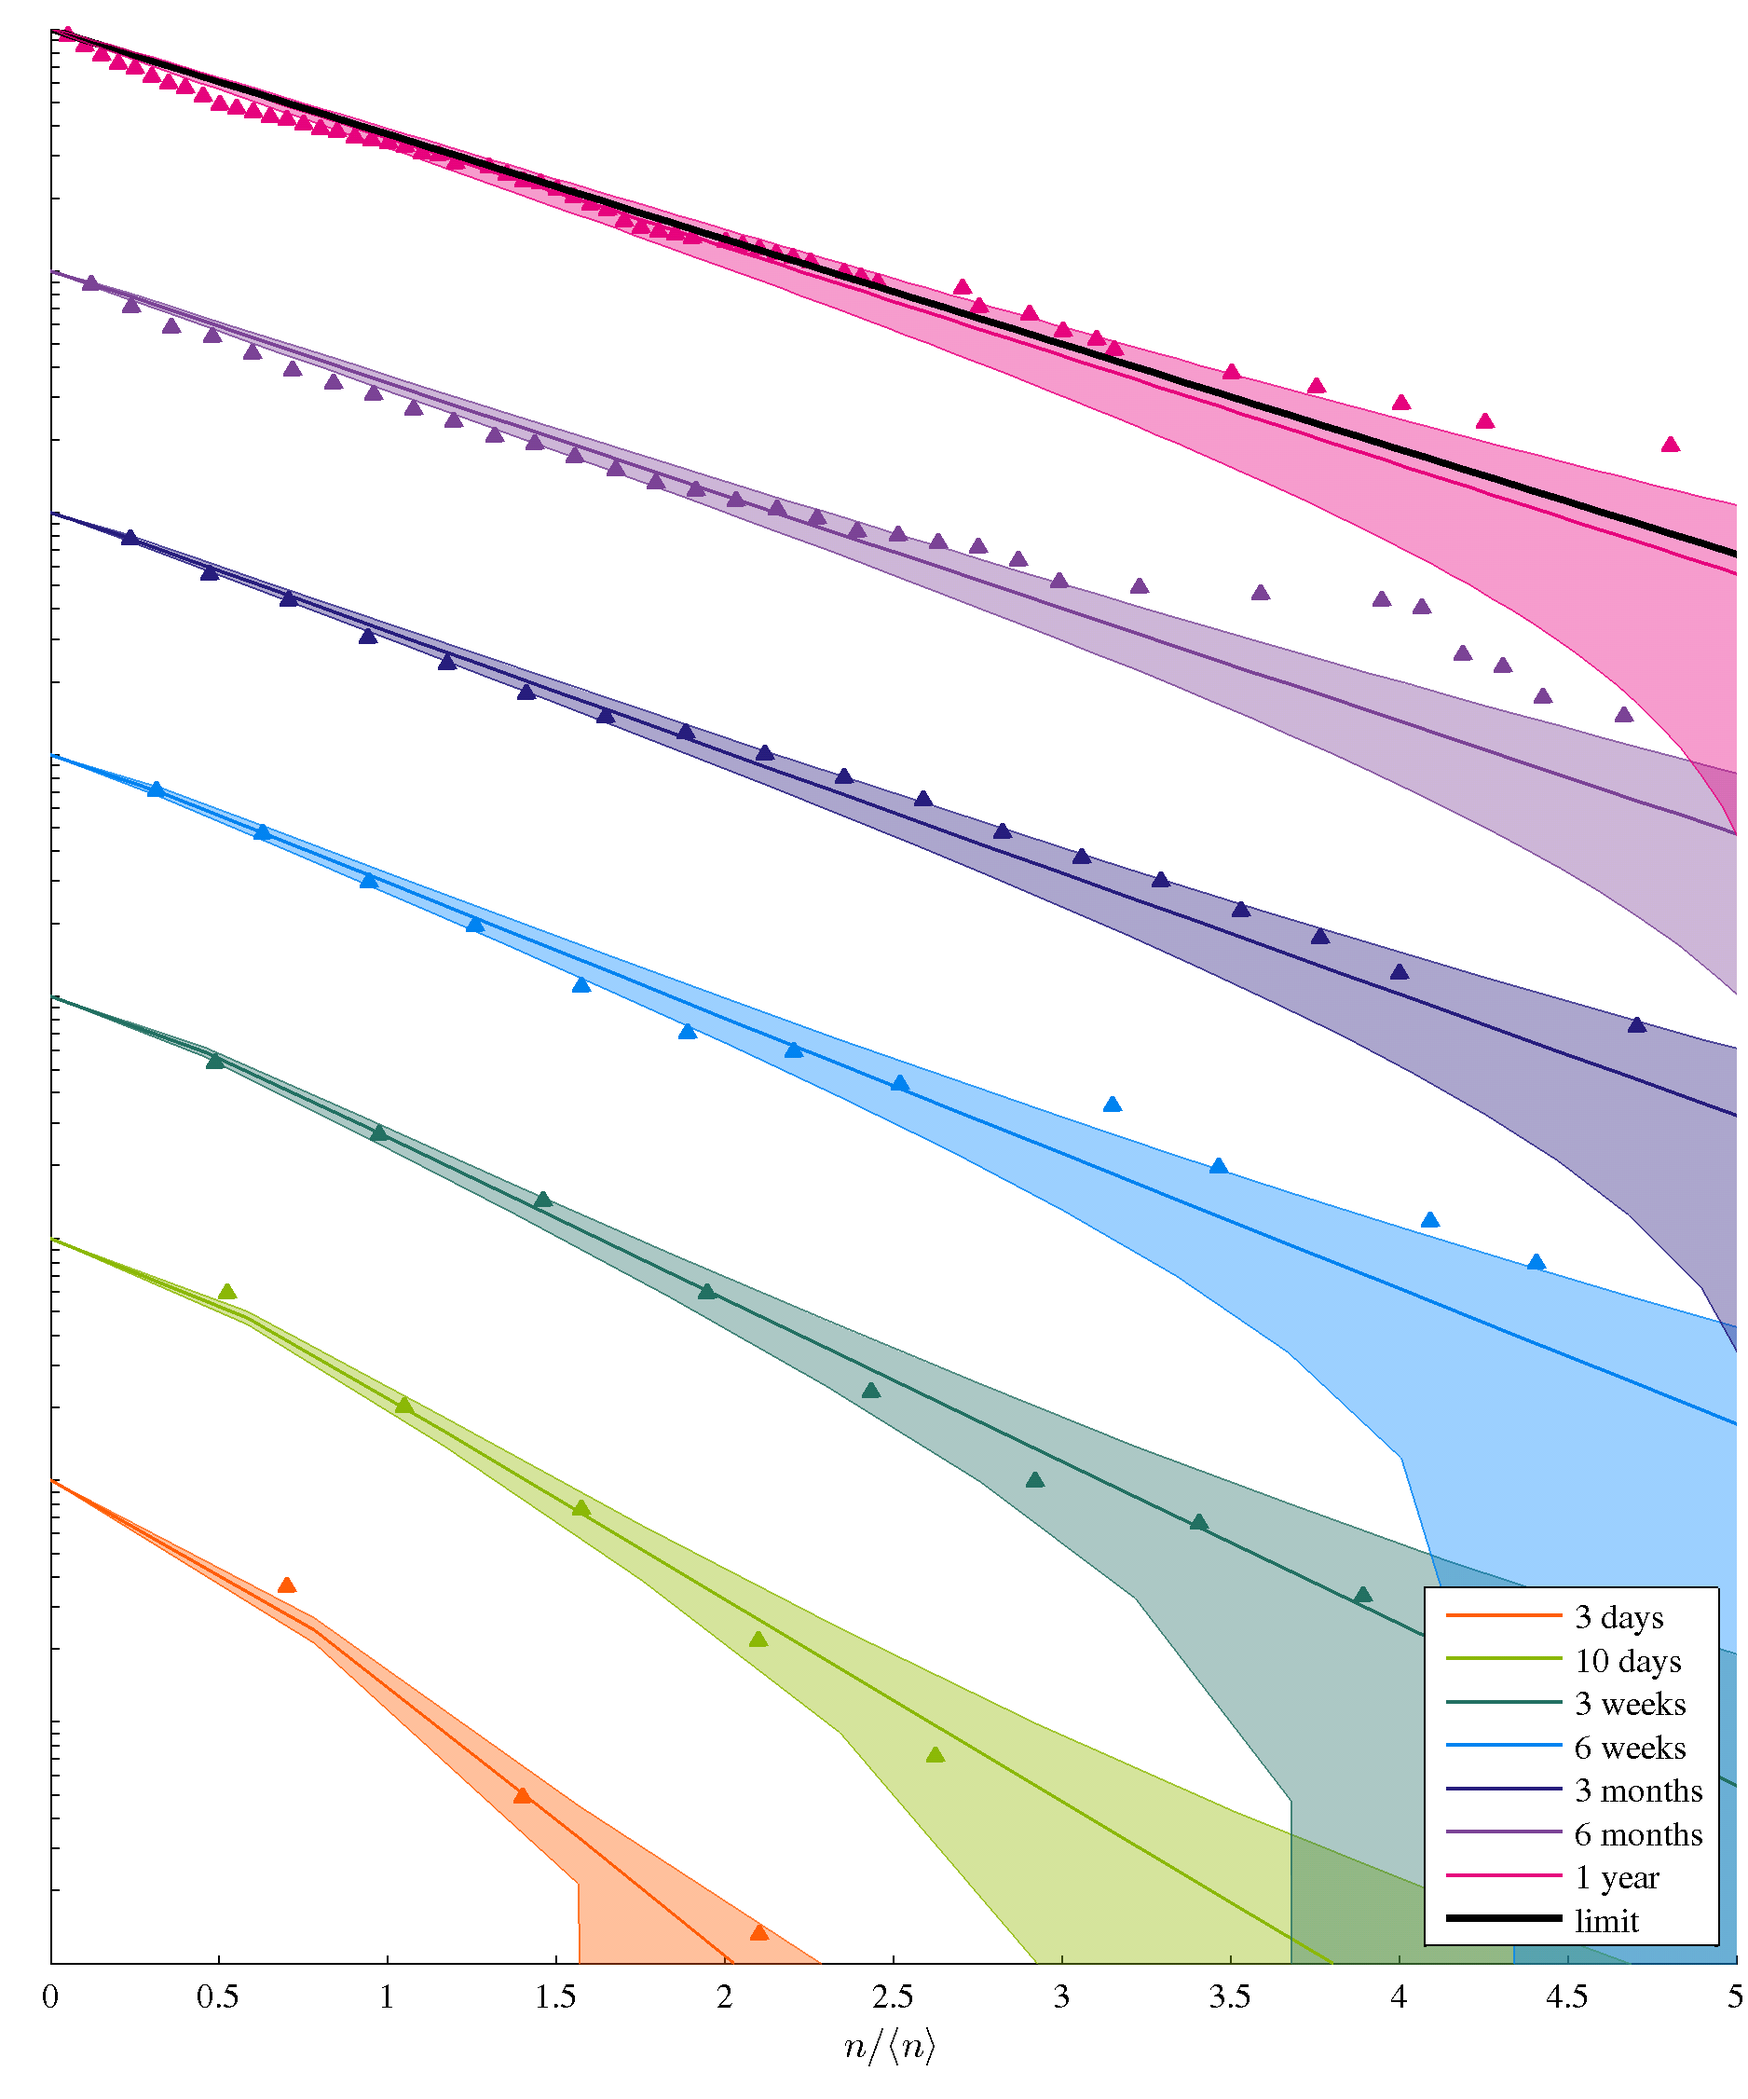
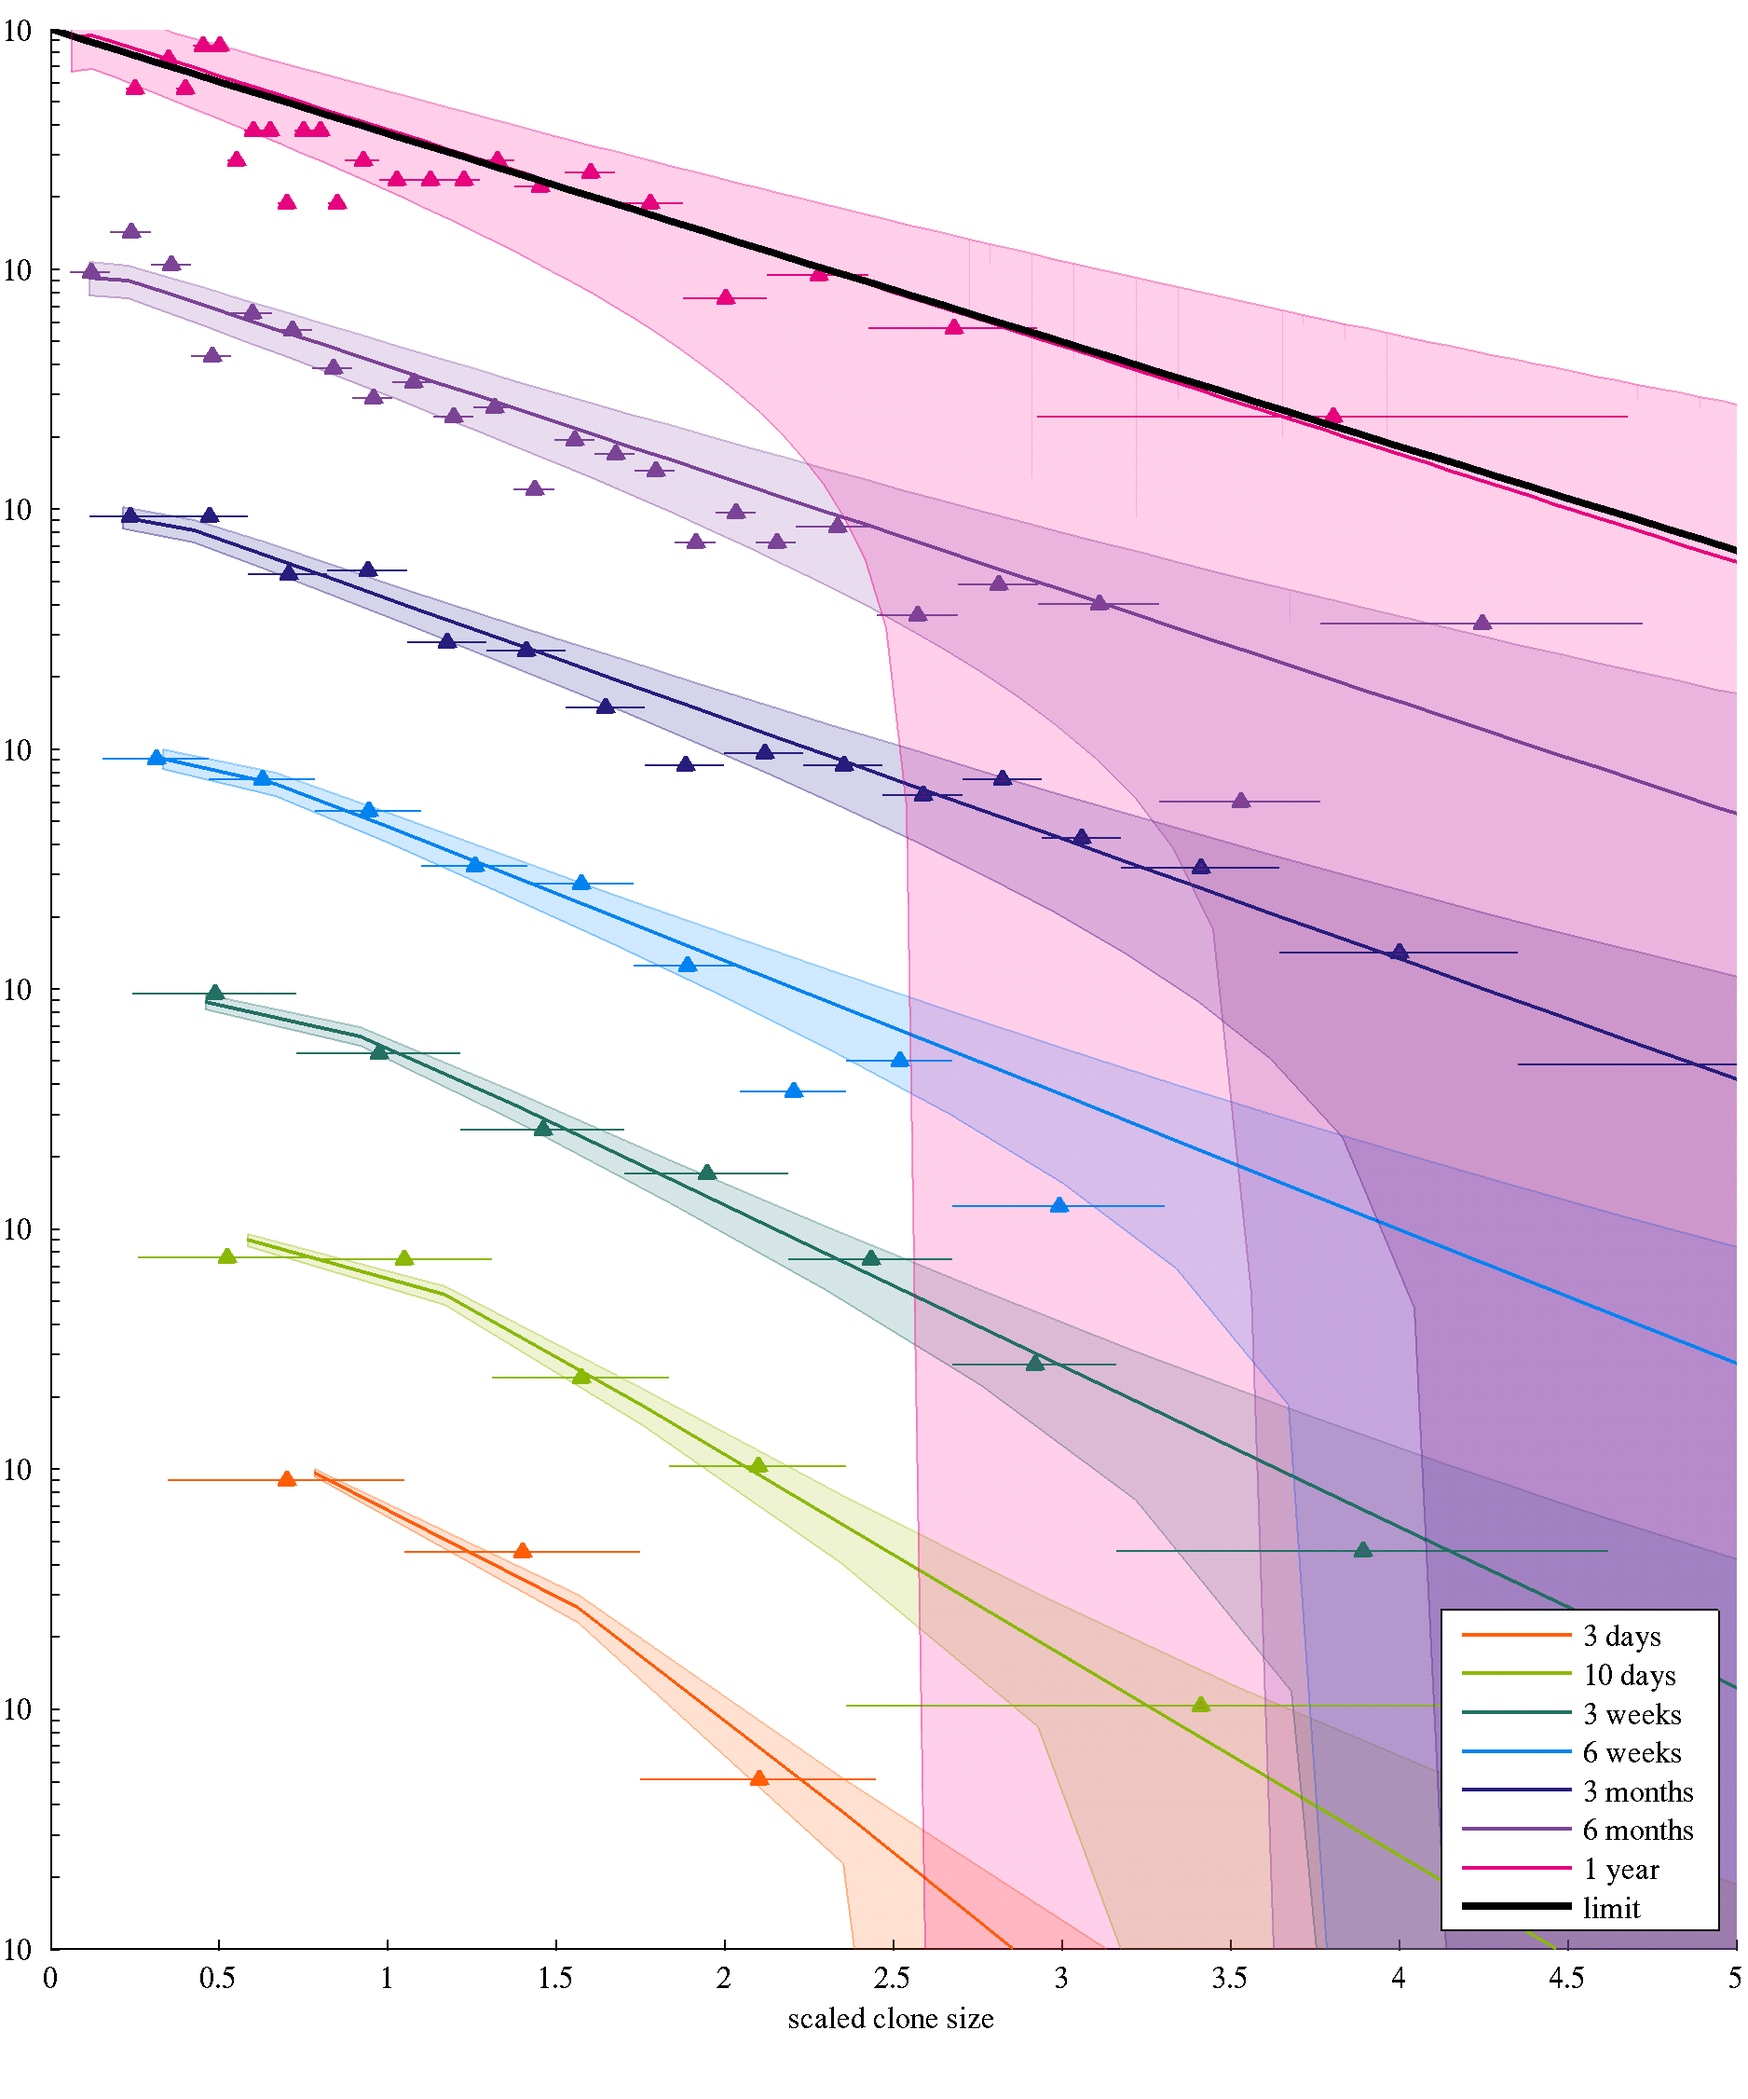
plot binned pdf rather than cdf

diff --git a/AB/oes_scaling.m b/AB/oes_scaling.m
@@ -24,8 +24,10 @@ data7 = [1 12; 2 18; 3 15; 4 14; 5 6; 6 11; 7 8; 8 6; 9 9; 10 9; 11 3; 12 4; 13 
 ts = [t1 t2 t3 t4 t5 t6 t7];
 data = {data1 data2 data3 data4 data5 data6 data7};
 av = zeros(size(ts));
+tot = zeros(size(ts));
 for i = 1:numel(ts)
-    av(i) = dot(data{i}(:,1), data{i}(:,2) / sum(data{i}(:,2)));
+    tot(i) = sum(data{i}(:,2));
+    av(i) = dot(data{i}(:,1), data{i}(:,2) / tot(i));
 end
 
 lambda = 0.7676;
@@ -33,13 +35,6 @@ r = 0.1926;
 rho = 0.5164;
 gamma = lambda * rho / (1-rho);
 tau = rho / (r * lambda);
-
-%[p0, ts2] = xi(lambda, r, rho, logspace(-1, 2, 40), 0);
-%loglog(newplot(figure), ts, av, '+', ts2, (1 + (lambda/gamma)*(1-exp(-gamma*ts2))) ./ (1 - p0), '-');
-%set(gca, 'XLim', [0.1 100]);
-%xlabel('$t$ / weeks', 'Interpreter', 'latex');
-%ylabel('$\langle n^\textrm{surv} \rangle$', 'Interpreter', 'latex');
-%set(gca, 'FontName', 'Times');
 
 fh = figure;
 gh = newplot(fh);
@@ -54,37 +49,56 @@ colours = [
  0.890196, 0.0117647, 0.490196;
  0.905882, 0.027451, 0.129412
 ];
-hold all;
+set(gh, 'NextPlot', 'add');
 for i = 1:numel(ts);
-    av = dot(data{i}(:,2) / sum(data{i}(:,2)), data{i}(:,1));
-    lh = plot(gh, data{i}(:,1) / av, log10((1 - cumsum(data{i}(:,2)) / sum(data{i}(:,2)))) + (i-1), ...
+    ps = condPb2(abs(exact_pops(lambda, r, lambda * rho / (1-rho), ts(i), floor(10*ts(i))+1)));
+    ps = ps(2:end);
+    tav = dot(1:numel(ps), ps);
+    err = sqrt(ps .* (1-ps) ./ tot(i));
+    plot(gh, (1:numel(ps)) ./ tav, log10(ps * tav) + (i-1), '-', 'Color', colours(i,:), 'LineWidth', 1);
+    fill_plot(gh, (1:numel(ps)) ./ tav, ...
+        log10(max(ps - err, 1e-10) * tav) + (i-1), ...
+        log10(max(ps + err, 1e-10) * tav) + (i-1), ...
+        colours(i,:), 0.4);
+
+    sdata = sparse(data{i}(:,1), ones(size(data{i}(:,1))), data{i}(:,2), 1000000, 1);
+    marker = 1;
+    acc = 0;
+    lo = zeros(0,0);
+    hi = zeros(0,0);
+    binned = zeros(0,0);
+    for j = 1:numel(ps)
+       acc = acc + ps(j);
+       if (1-acc) ^ tot(i) < 0.01
+           lo(end+1) = marker;
+           hi(end+1) = j;
+           binned(end+1) = sum(sdata(marker:j));
+           marker = j+1;
+           acc = 0;
+       end
+    end
+
+    lh = plot(gh, (lo + hi) / 2 / av(i), log10((binned ./ (hi - lo + 1)) / tot(i) * av(i)) + (i-1), ...
         '^', 'MarkerEdgeColor', colours(i,:), 'MarkerFaceColor', colours(i,:), 'MarkerSize', 4);
     ah = get(lh, 'Annotation'); leh = get(ah, 'LegendInformation'); set(leh, 'IconDisplayStyle', 'off');
-    ps = condPb2(exact_pops(lambda, r, lambda * rho / (1-rho), ts(i), floor(10*ts(i))+1));
-    av = dot(0:(numel(ps)-1), ps);
-    cps = min(cumsum(ps),1);
-    err = sqrt(cps .* (1-cps) ./ sum(data{i}(:,2)));
-    plot(gh, (0:(numel(ps)-1)) / av, log10(1 - cps) + (i-1), '-', 'Color', colours(i,:), 'LineWidth', 1);
-%     lh = plot(gh, (0:(numel(ps)-1)) / av, (1 - cps + err) .* (10^(i-1)), '-.', 'Color', colours(i,:));
-%     ah = get(lh, 'Annotation'); leh = get(ah, 'LegendInformation'); set(leh, 'IconDisplayStyle', 'off');
-%     lh = plot(gh, (0:(numel(ps)-1)) / av, (1 - cps - err) .* (10^(i-1)), '-.', 'Color', colours(i,:));
-%     ah = get(lh, 'Annotation'); leh = get(ah, 'LegendInformation'); set(leh, 'IconDisplayStyle', 'off');
-    fill_plot(gh, (0:(numel(ps)-1)) / av, ...
-        log10(max(1 - cps - err,1e-323)) + (i-1), ...
-        log10(max(1 - cps + err,1e-323)) + (i-1), ...
-        colours(i,:), 0.8);
+    for j = 1:numel(binned)
+        lh = plot(gh, [lo(j)-0.5 hi(j)+0.5] / av(i), log10([binned(j) binned(j)] ./ (hi(j) - lo(j) + 1) / tot(i) * av(i)) + (i-1), ...
+           '-', 'Color', colours(i,:));
+        ah = get(lh, 'Annotation'); leh = get(ah, 'LegendInformation'); set(leh, 'IconDisplayStyle', 'off');
+    end
+
+
     set(gh, 'XLim', [0 5], 'YLim', [-2 6]);
     pause(0.1);
 end
 plot(gh, linspace(0,5,50), -linspace(0,5,50).*log10(exp(1)) + 6, '-', 'Color', 'black', 'LineWidth', 2);
-hold off;
 
-xlabel(gh, '$n/\langle n \rangle$', 'Interpreter', 'latex');
+xlabel(gh, 'scaled clone size', 'FontSize', 8, 'FontName', 'Times');
 set(gh, 'YTick', log10([reshape([1:9]' * 10.^[-2:5], 8*9, 1); 10^6]));
 set(gh, 'YTickLabel', '10 ||||||||');
 set(gh, 'TickLength', get(gh, 'TickLength') / 2);
 
-set(gh, 'FontName', 'Times', 'FontSize', 9);
+set(gh, 'FontName', 'Times', 'FontSize', 8);
 
 legend('3 days', ...
     '10 days', ...
@@ -110,7 +124,6 @@ set(fh, 'Renderer', 'Painters');
 pause(0.1);
 set(fh, 'Renderer', 'OpenGL');
 pause(0.1);
-%print(fh, '-dpdf', '-opengl', '-r300', 'oes-scaling-b.pdf');
 print(fh, '-dpng', '-opengl', '-r300', 'oes-scaling-b');
 
 end
